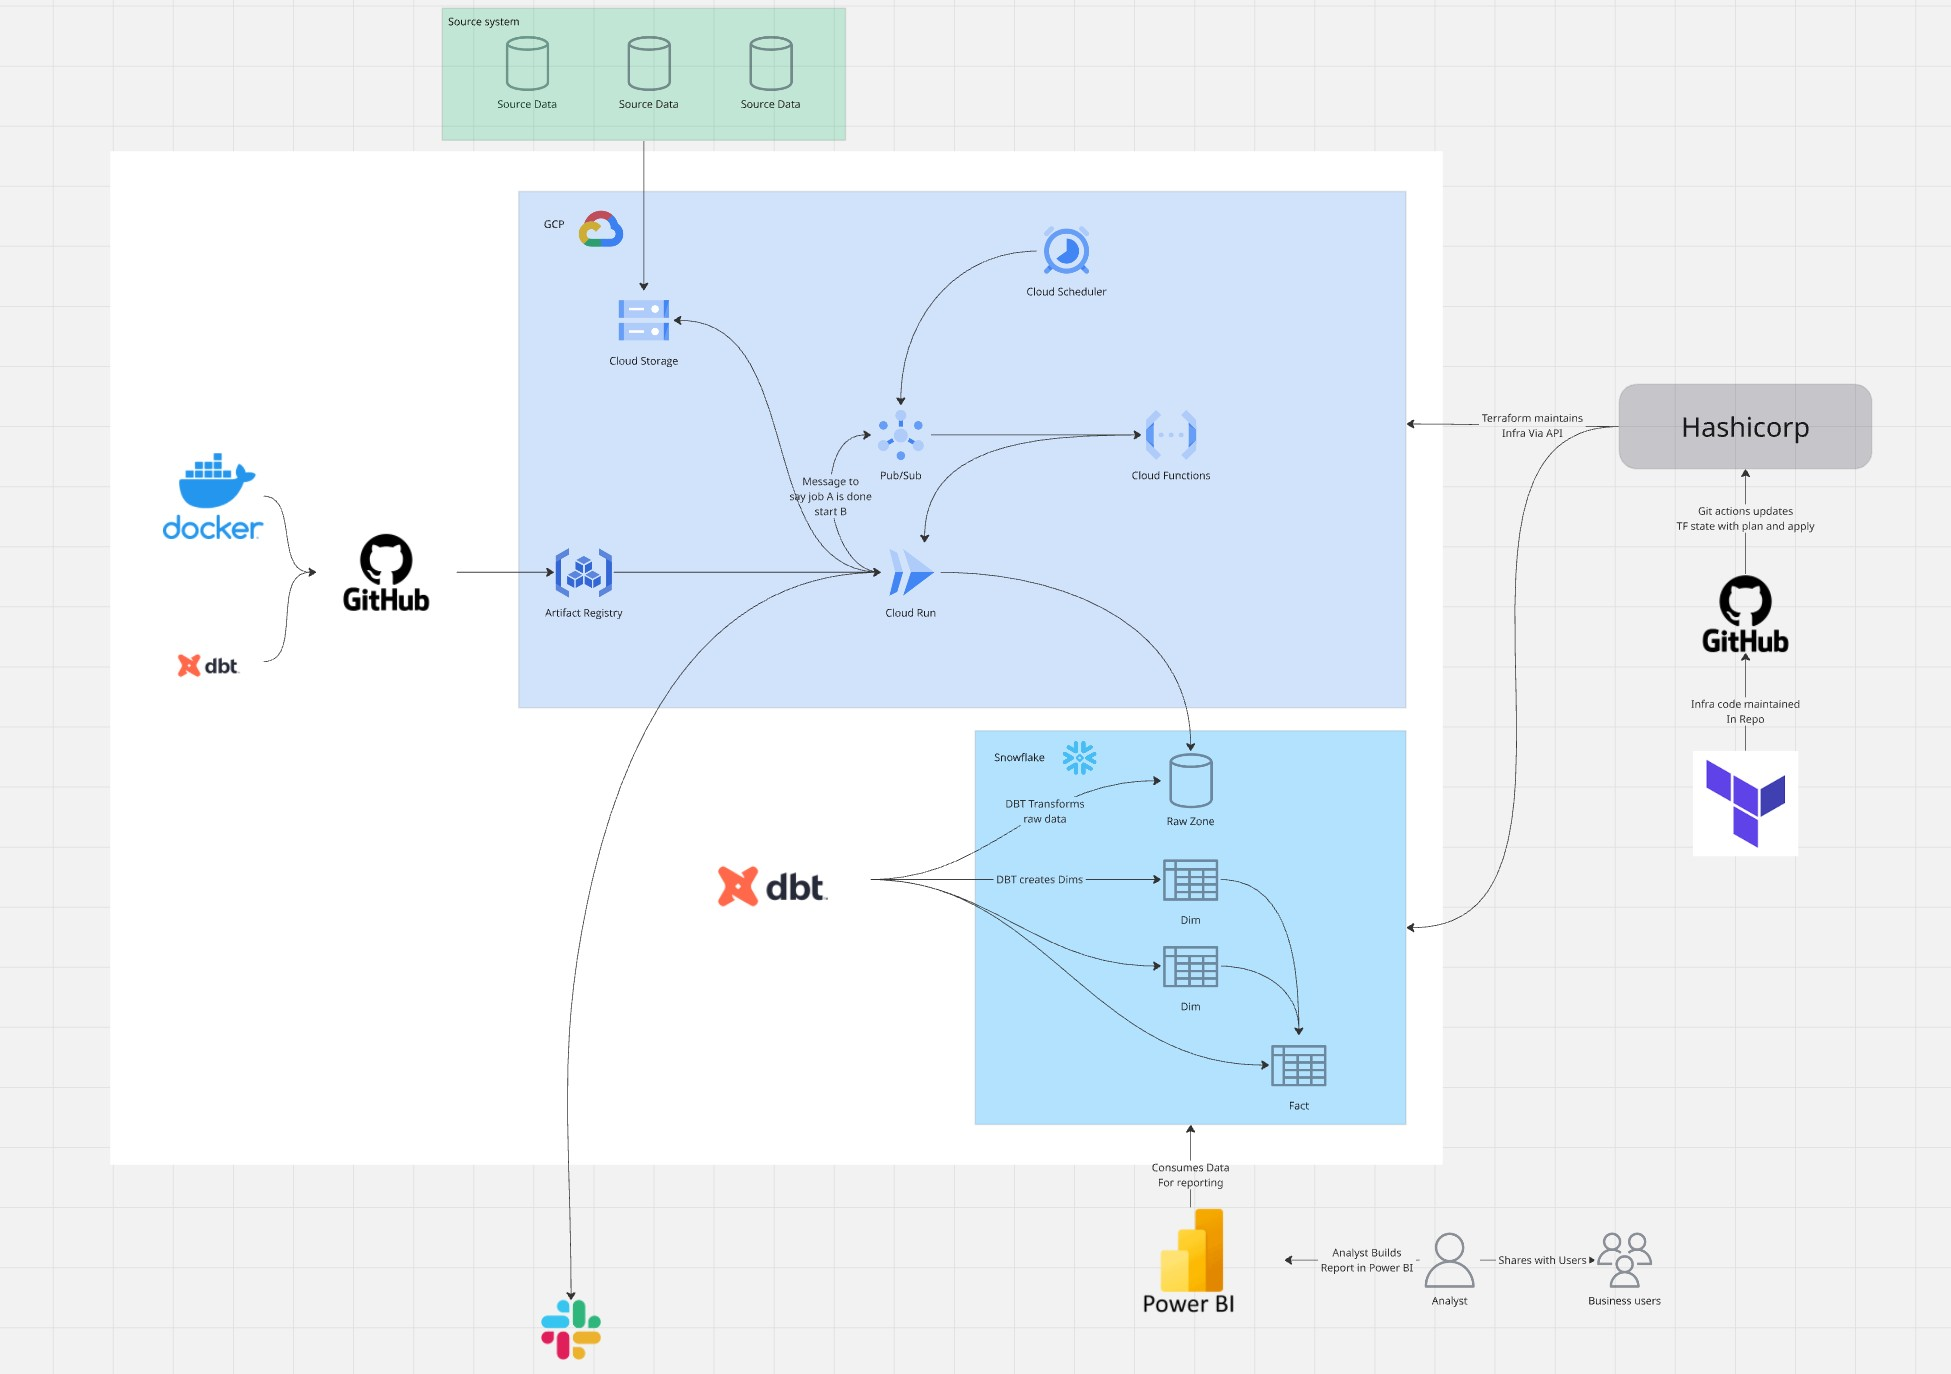
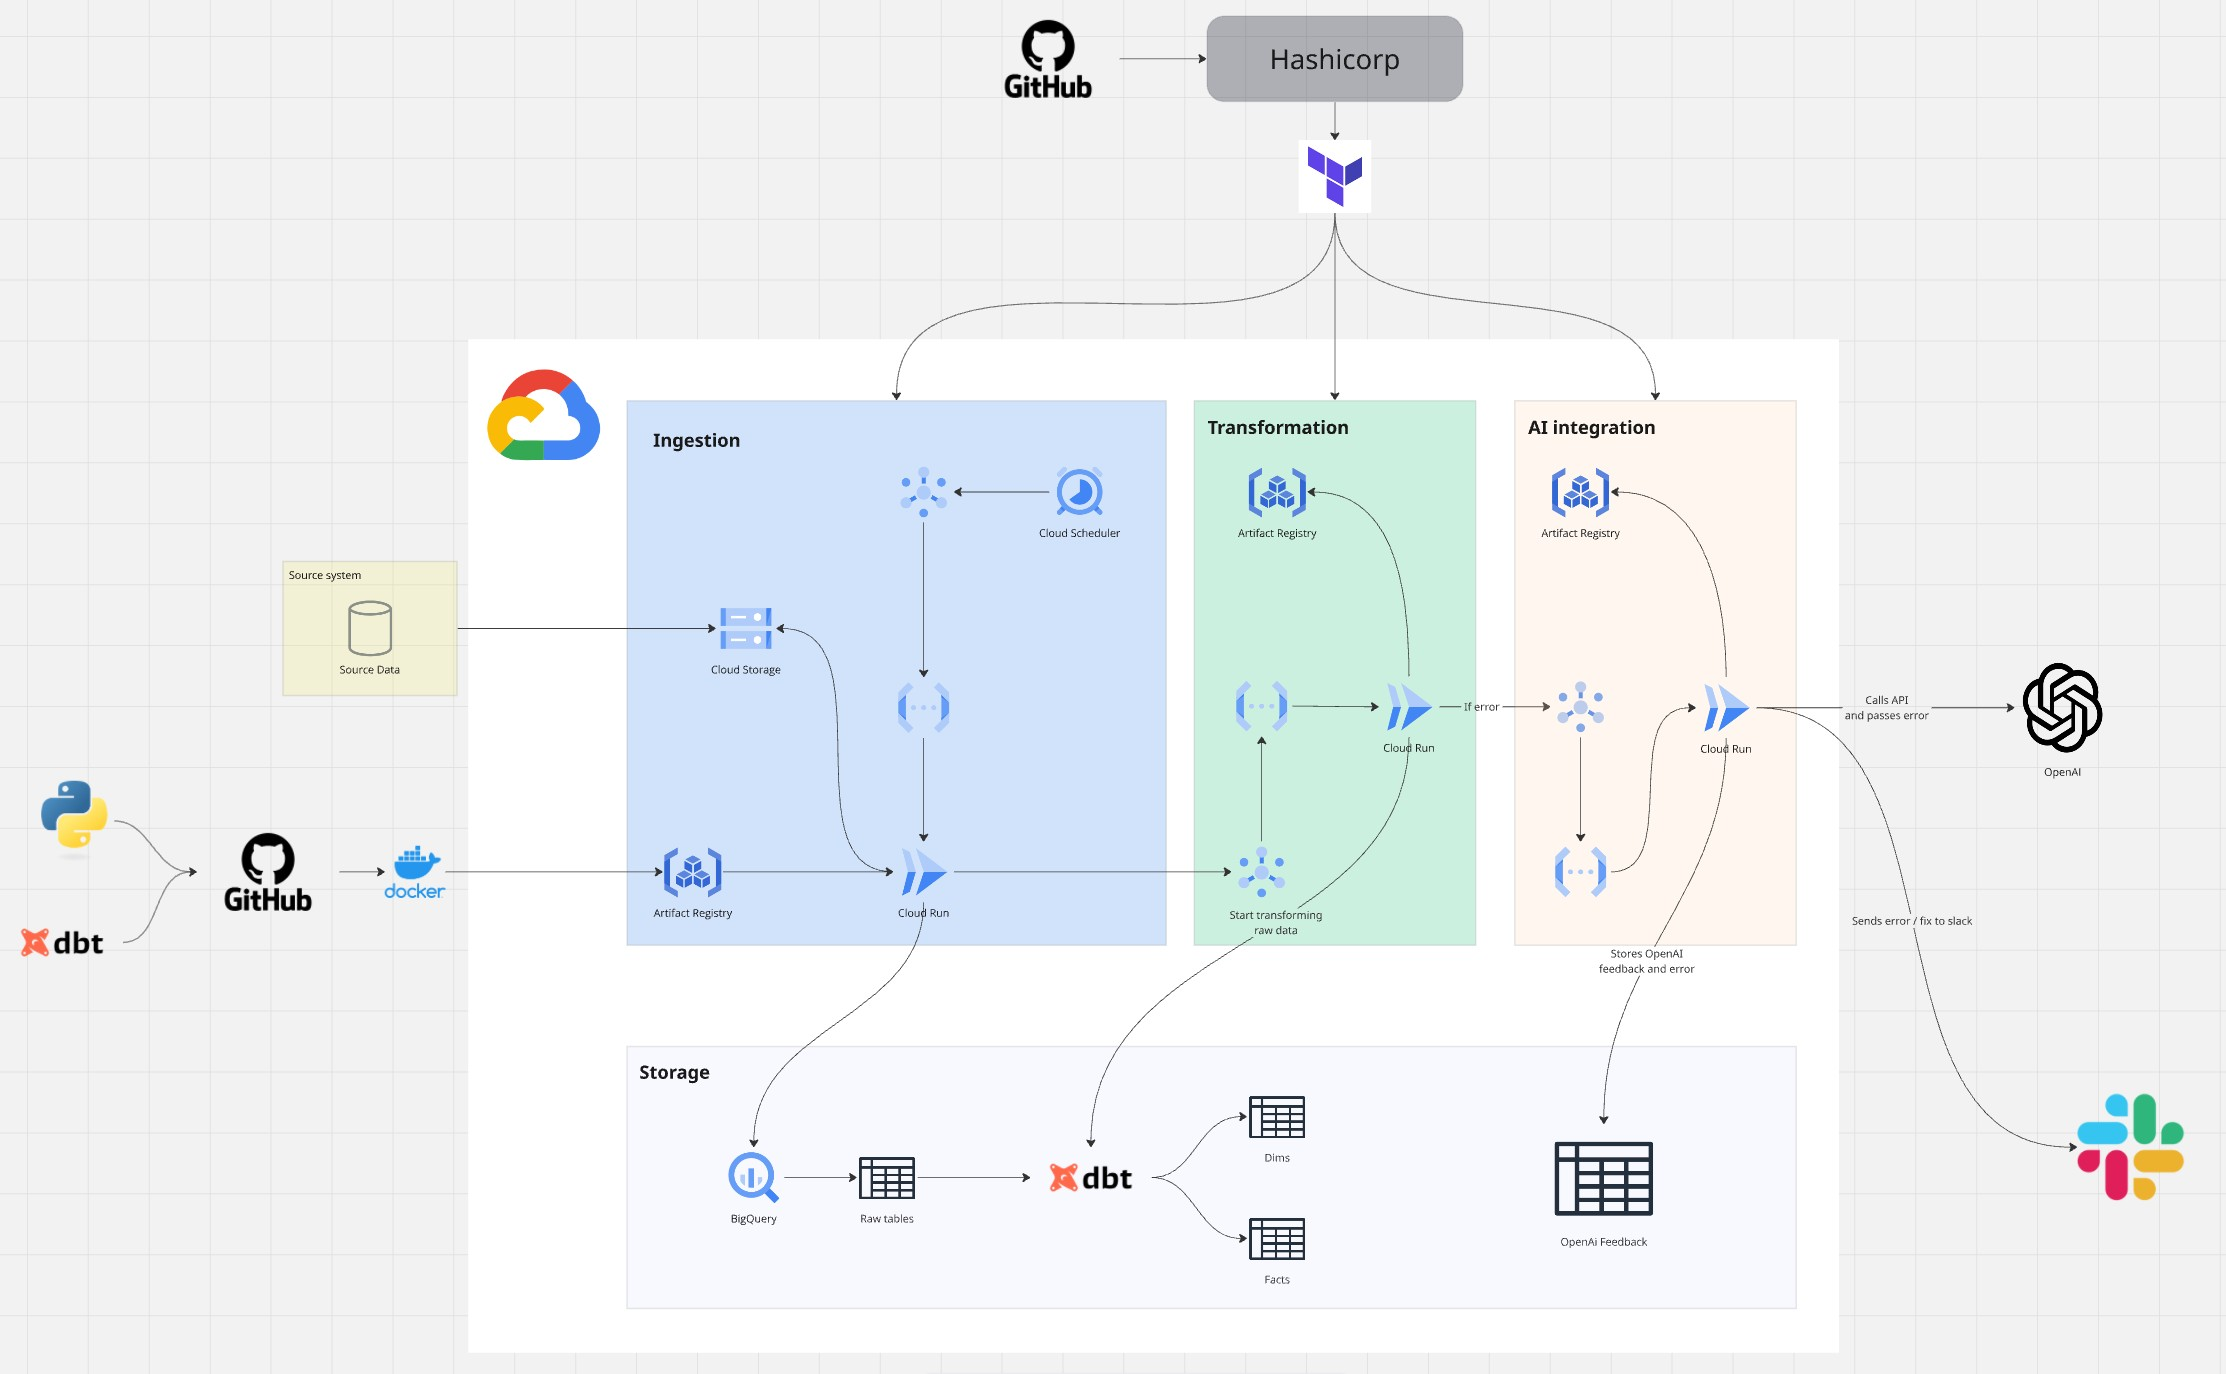
updating to bigquery

diff --git a/orchestrator/jobs/bigquery_ingestion/main.py b/orchestrator/jobs/bigquery_ingestion/main.py
@@ -1,0 +1,50 @@
+from concurrent.futures import ThreadPoolExecutor, as_completed
+
+from config.base import settings
+from config.logging import configure_logging
+from utils.common import load_table_mappings
+from utils.injestion import ingest_file
+from utils.pubsub import publish_pubsub_message
+
+
+def execute() -> None:
+    """
+    Ingests data from the raw stage in GCS into the target tables in BigQuery.
+    """
+    log = configure_logging()
+    log.info("Establishing connection to BigQuery...")
+
+    log.info("Loading table mappings for ingestion...")
+    mappings = load_table_mappings()
+    tables = mappings.get("tables", {})
+
+    log.info(f"Found {len(tables)} table(s) to ingest: {list(tables.values())}")
+
+    with ThreadPoolExecutor(max_workers=4) as executor:
+        futures = [
+            executor.submit(ingest_file, log, file_name, table_name)
+            for file_name, table_name in tables.items()
+        ]
+        for future in as_completed(futures):
+            future.result()
+
+    log.info("Publishing Pub/Sub message to notify job completion...")
+    message_id = publish_pubsub_message(
+        topic=settings.PUBSUB_TOPIC,
+        message={
+            "status": "ingestion_complete",
+            "dataset": settings.DATASET,
+            "project": settings.PROJECT_ID,
+            "cloud_job_name": "cloud-scheduler-cloudrun-job-transform-dbt",
+            "job_name": "refresh_facts",
+            "schedule": "daily",
+        },
+    )
+
+    log.info(
+        f"Pub/Sub message published to topic '{settings.PUBSUB_TOPIC}' with message_id: {message_id}"
+    )
+
+
+if __name__ == "__main__":
+    execute()

diff --git a/utils/injestion.py b/utils/injestion.py
@@ -1,0 +1,39 @@
+import logging
+
+from google.cloud import bigquery
+
+from config.base import settings
+
+
+def ingest_file(
+    log: logging.Logger,
+    file_name: str,
+    table_name: str,
+) -> None:
+    """Ingests a file from GCS into BigQuery."""
+
+    client = bigquery.Client()
+    table_ref = f"{settings.PROJECT_ID}.{settings.DATASET}.{table_name}"
+    gcs_uri = f"gs://{settings.GCS_BUCKET}/{file_name}"
+
+    job_config = bigquery.LoadJobConfig(
+        source_format=bigquery.SourceFormat.CSV,
+        skip_leading_rows=1,
+        write_disposition=bigquery.WriteDisposition.WRITE_APPEND,
+        autodetect=False,
+    )
+
+    log.debug(
+        f"Submitting load job for file '{file_name}' into table '{table_ref}' from GCS URI '{gcs_uri}'"
+    )
+
+    load_job = client.load_table_from_uri(
+        gcs_uri,
+        table_ref,
+        job_config=job_config,
+    )
+    load_job.result()
+
+    log.info(
+        f"✅ Successfully ingested '{file_name}' into '{settings.DATASET}.{table_name}'"
+    )

diff --git a/functions/run_transform/main.py b/functions/run_transform/main.py
@@ -37,7 +37,7 @@ def trigger_transformation_job(event: dict, context: None) -> None:
         return
 
     log.info(
-        f"🛠 Preparing to trigger Cloud Run Job '{cloud_job_name}' in region '{settings.REGION}'..."
+        f"Preparing to trigger Cloud Run Job '{cloud_job_name}' in region '{settings.REGION}'..."
     )
 
     client = run_v2.JobsClient()
@@ -49,8 +49,6 @@ def trigger_transformation_job(event: dict, context: None) -> None:
                 "env": [
                     {"name": "ENV", "value": settings.ENVIRONMENT},
                     {"name": "PROJECT_ID", "value": settings.PROJECT_ID},
-                    {"name": "DATABASE", "value": payload.get("database", "")},
-                    {"name": "SCHEMA", "value": payload.get("schema", "")},
                     {"name": "JOB_NAME", "value": payload.get("job_name", "")},
                     {"name": "SCHEDULE", "value": payload.get("schedule", "")},
                     {"name": "TRIGGER_SOURCE", "value": "post_ingestion"},

diff --git a/config/base.py b/config/base.py
@@ -1,5 +1,4 @@
 import os
-from typing import Optional
 
 from pydantic_settings import BaseSettings
 
@@ -19,19 +18,13 @@ def get_settings_class(environment_name: str):  # type: ignore
 
 class Settings(BaseSettings):
 
-    USER: str = "GCP_USER"
-    PASSWORD: Optional[str] = os.getenv("SNOWFLAKE_PASSWORD")
-    ACCOUNT: str = "QMUGLJO-NE36888"
-    ROLE: str = "GCP_USER_ROLE"
-    WAREHOUSE: str = "COMPUTE_WH"
-    DATABASE: str
-    SCHEMA: str = "RAW"
+    DATASET: str = "raw"
     REGION: str = "us-central1"
     PROJECT_ID: str
-    DEFAULT_REGION: str = "us-central1"
+    GCS_BUCKET: str
     ENVIRONMENT: str
 
-    PUBSUB_TOPIC: str = "cloud-orchestrator-transform-topic"
+    PUBSUB_TOPIC: str = "cloud-scheduler-transform-topic"
 
     LOG_URL_TEMPLATE: str = (
         "https://console.cloud.google.com/run/jobs/executions/details/{region}/{execution_id}/logs?project={project_id}"

diff --git a/utils/common.py b/utils/common.py
@@ -10,12 +10,11 @@ def load_table_mappings() -> dict:
     yaml = YAML(typ="safe")
     file_path = (
         pathlib.Path(__file__).resolve().parent.parent
-        / "orchestrator"
-        / "jobs"
-        / "snowflake_ingestion"
+        / "config"
         / "table_mappings.yaml"
     )
-    return yaml.load(file_path)
+    with open(file_path, "r", encoding="utf-8") as f:
+        return yaml.load(f)
 
 
 def load_settings(path: str) -> dict[str, Any]:

diff --git a/config/dev.py b/config/dev.py
@@ -6,3 +6,4 @@ class DevSettings(Settings):
     DATABASE: str = "DEV_CLOUD_DATAWAREHOUSE"
     PROJECT_ID: str = "dev-cloud-warehouse"
     ENVIRONMENT: str = "dev"
+    GCS_BUCKET: str = "outbound-snowflake-dev/raw/incoming"

diff --git a/README.md b/README.md
@@ -112,6 +112,7 @@ Get-Content .env | ForEach-Object {
     [System.Environment]::SetEnvironmentVariable($key, $val, "Process")
   }
 }
+
 ```
 
 If testing changes to transform_dbt hardcode inside `main.py`:
@@ -121,6 +122,14 @@ If testing changes to transform_dbt hardcode inside `main.py`:
 os.environ["JOB_NAME"] = "refresh_facts"
 os.environ["SCHEDULE"] = "daily"
 
+```
+If local testing changes for cloud run or any gcp service add this to the top of the `main.py` file:
+The client will know to read the environment variables from the `.env` file.
+```python
+from dotenv import load_dotenv
+load_dotenv()
+
+import os
 ```
 
 ---
